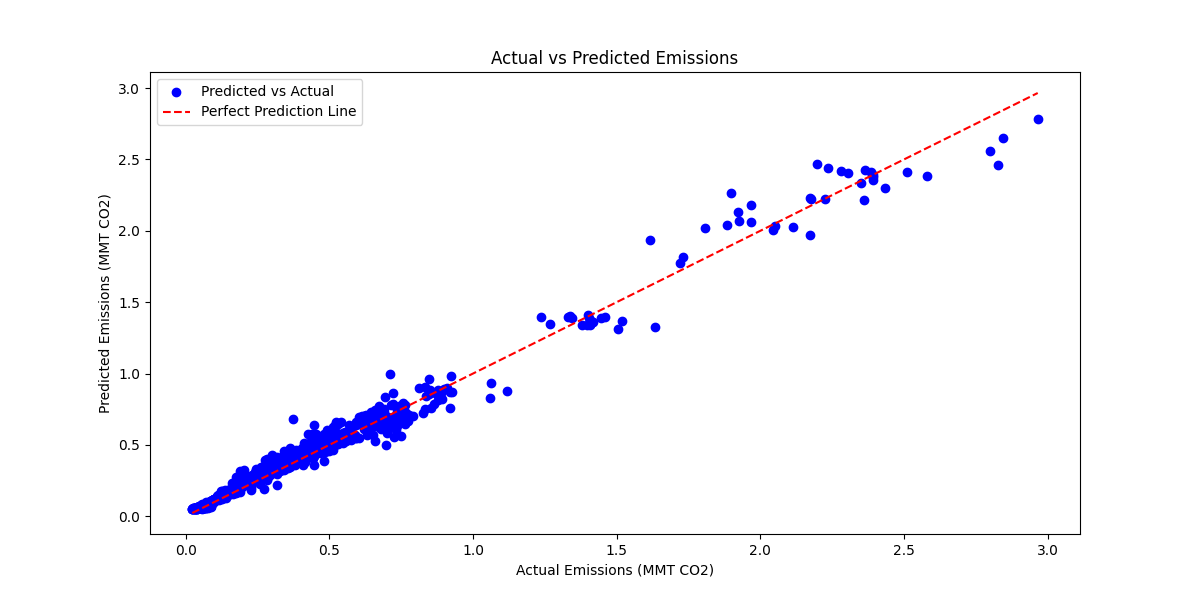
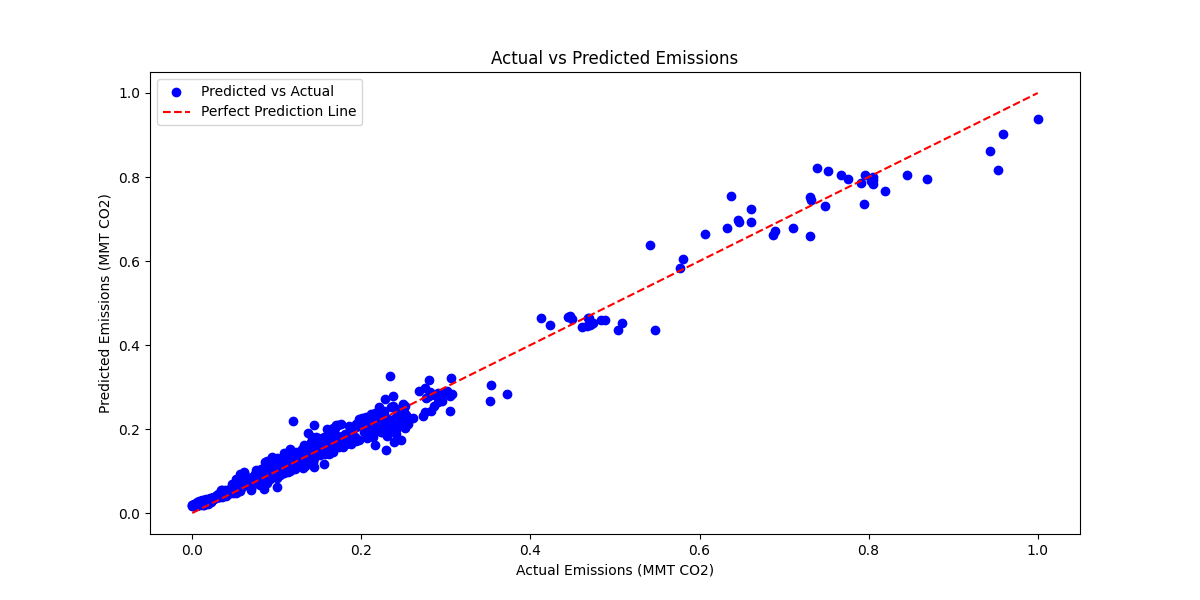
updated models and images

diff --git a/data/Models/model2.py b/data/Models/model2.py
@@ -8,6 +8,7 @@ from sklearn.metrics import mean_squared_error, r2_score, mean_absolute_percenta
 from tensorflow.keras.models import Sequential
 from tensorflow.keras.layers import LSTM, Dense, Dropout
 from tensorflow.keras.optimizers import Adam
+from sklearn.preprocessing import FunctionTransformer
 
 # Set up logging
 logging.basicConfig(level=logging.INFO)
@@ -36,18 +37,32 @@ def load_and_preprocess_data(file_path):
         logger.error(f"Error processing {file_path}: {str(e)}")
         raise
 
+class CustomScaler:
+    def __init__(self):
+        self.scaler = FunctionTransformer(
+            func=lambda x: np.log1p(x),
+            inverse_func=lambda x: np.expm1(x)
+        )
+
+    def fit_transform(self, data):
+        return self.scaler.fit_transform(data)
+
+    def inverse_transform(self, data):
+        return self.scaler.inverse_transform(data)
+    
 class EmissionsPredictor:
     def __init__(self, n_steps=5):
         self.n_steps = n_steps
         self.scalers = {
-            'transport': MinMaxScaler(),
-            'electricity': MinMaxScaler(),
-            'agriculture': MinMaxScaler(),
-            'total': MinMaxScaler()
-        }
+    'transport': MinMaxScaler(),
+    'electricity': MinMaxScaler(),
+    'agriculture': MinMaxScaler(),
+    'total': MinMaxScaler()
+}
         self.model = None
         self.state_max = None
         self.combined_df = None
+
 
     def preprocess_data(self, transport_df, electricity_df, agriculture_df):
         logger.info(f"Initial shapes - Transport: {transport_df.shape}, "
@@ -78,7 +93,7 @@ class EmissionsPredictor:
         electricity_values = combined_df['emissions_electricity'].values.reshape(-1, 1)
         agriculture_values = combined_df['emissions'].values.reshape(-1, 1)
 
-        # Scale the values
+        # Scale the values using the custom scaler
         combined_df['emissions_transport'] = self.scalers['transport'].fit_transform(transport_values)
         combined_df['emissions_electricity'] = self.scalers['electricity'].fit_transform(electricity_values)
         combined_df['emissions'] = self.scalers['agriculture'].fit_transform(agriculture_values)
@@ -168,7 +183,7 @@ class EmissionsPredictor:
         # Save visualization data
         try:
             viz_data = [{'true': float(true), 'predicted': float(pred)} for true, pred in zip(y_test_unscaled, y_pred_unscaled)]
-            with open(file_url+'prediction_viz_data.json', 'w') as f:
+            with open('prediction_viz_data.json', 'w') as f:
                 json.dump(viz_data, f)
             logger.info("Successfully saved visualization data")
         except Exception as e:
@@ -249,29 +264,61 @@ class EmissionsPredictor:
 # Plotting functions
 import matplotlib.pyplot as plt
 
-def plot_actual_vs_predicted(y_true, y_pred):
+# def plot_actual_vs_predicted(y_true, y_pred):
+#     plt.figure(figsize=(12, 6))
+#     plt.scatter(y_true, y_pred, color='blue', label='Predicted vs Actual')
+#     plt.plot([min(y_true), max(y_true)], [min(y_true), max(y_true)], color='red', linestyle='--', label='Perfect Prediction Line')
+#     plt.xlabel('Actual Emissions (MMT CO2)')
+#     plt.ylabel('Predicted Emissions (MMT CO2)')
+#     plt.title('Actual vs Predicted Emissions')
+#     plt.legend()
+#     plt.savefig(file_url+'metric_plots/actual_vs_predicted.png')
+#     plt.close()
+
+# def plot_time_series(y_true, y_pred):
+#     plt.figure(figsize=(14, 6))
+#     plt.plot(y_true, label='Actual Emissions', color='blue', linestyle='-', marker='o')
+#     plt.plot(y_pred, label='Predicted Emissions', color='orange', linestyle='--', marker='x')
+#     plt.xlabel('Sample Index')
+#     plt.ylabel('Emissions (MMT CO2)')
+#     plt.title('Time Series of Actual vs Predicted Emissions')
+#     plt.legend()
+#     plt.savefig(file_url+'metric_plots/time_series_comparison.png')
+#     plt.close()
+def plot_actual_vs_predicted(scaler, y_true, y_pred):
+    # Unscale the values before plotting
+    y_true_unscaled = scaler.inverse_transform(y_true.reshape(-1, 1))
+    y_pred_unscaled = scaler.inverse_transform(y_pred.reshape(-1, 1))
+
     plt.figure(figsize=(12, 6))
-    plt.scatter(y_true, y_pred, color='blue', label='Predicted vs Actual')
-    plt.plot([min(y_true), max(y_true)], [min(y_true), max(y_true)], color='red', linestyle='--', label='Perfect Prediction Line')
+    plt.scatter(y_true_unscaled, y_pred_unscaled, color='blue', label='Predicted vs Actual')
+    plt.plot([min(y_true_unscaled), max(y_true_unscaled)], 
+             [min(y_true_unscaled), max(y_true_unscaled)], 
+             color='red', linestyle='--', label='Perfect Prediction Line')
     plt.xlabel('Actual Emissions (MMT CO2)')
     plt.ylabel('Predicted Emissions (MMT CO2)')
-    plt.title('Actual vs Predicted Emissions')
+    plt.title('Actual vs Predicted Emissions (Unscaled)')
     plt.legend()
-    plt.savefig(file_url+'metric_plots/actual_vs_predicted.png')
+    plt.savefig(file_url + 'metric_plots/actual_vs_predicted_unscaled.png')
     plt.close()
 
-def plot_time_series(y_true, y_pred):
+def plot_time_series(scaler, y_true, y_pred):
+    # Unscale the values before plotting
+    y_true_unscaled = scaler.inverse_transform(y_true.reshape(-1, 1))
+    y_pred_unscaled = scaler.inverse_transform(y_pred.reshape(-1, 1))
+
     plt.figure(figsize=(14, 6))
-    plt.plot(y_true, label='Actual Emissions', color='blue', linestyle='-', marker='o')
-    plt.plot(y_pred, label='Predicted Emissions', color='orange', linestyle='--', marker='x')
+    plt.plot(y_true_unscaled, label='Actual Emissions', color='blue', linestyle='-', marker='o')
+    plt.plot(y_pred_unscaled, label='Predicted Emissions', color='orange', linestyle='--', marker='x')
     plt.xlabel('Sample Index')
     plt.ylabel('Emissions (MMT CO2)')
-    plt.title('Time Series of Actual vs Predicted Emissions')
+    plt.title('Time Series of Actual vs Predicted Emissions (Unscaled)')
     plt.legend()
-    plt.savefig(file_url+'metric_plots/time_series_comparison.png')
+    plt.savefig(file_url + 'metric_plots/time_series_comparison_unscaled.png')
     plt.close()
 
 
+# Main execution
 if __name__ == "__main__":
     predictor = EmissionsPredictor()
     try:
@@ -295,21 +342,23 @@ if __name__ == "__main__":
         logger.info(f"  Std true value: {metrics['std_true']:.2f}")
         logger.info(f"  Std predicted value: {metrics['std_pred']:.2f}")
         
-        prediction = predictor.predict_emissions('CA', 2022, 5000, 10000, 5000)
+        prediction = predictor.predict_emissions('MS', 2022, 5000, 10000, 5000)
         logger.info(f"Predicted emissions: {prediction:.2f}")
         
         # Load predictions from the model to plot
         X, y = predictor.prepare_sequences(combined_df)
         X_reshaped = X.reshape((X.shape[0], predictor.n_steps, 1))
         y_pred = predictor.model.predict(X_reshaped)
-        #y_pred_unscaled = predictor.scalers['total'].inverse_transform(y_pred.reshape(-1, 1))
-        #y_test_unscaled = predictor.scalers['total'].inverse_transform(y.reshape(-1, 1))
+        y_pred_unscaled = predictor.scalers['total'].inverse_transform(y_pred.reshape(-1, 1))
+        y_test_unscaled = predictor.scalers['total'].inverse_transform(y.reshape(-1, 1))
 
 
-        #Plotting the results
-        plot_actual_vs_predicted(y, y_pred)
-        plot_time_series(y, y_pred)
-
+        # Plotting the results
+        # plot_actual_vs_predicted(y_test_unscaled, y_pred_unscaled)
+        # plot_time_series(y_test_unscaled, y_pred_unscaled)
+        # Assuming 'self.scalers['total']' is the correct scaler for the total emissions
+        plot_actual_vs_predicted(predictor.scalers['total'], y, y_pred)
+        plot_time_series(predictor.scalers['total'], y, y_pred)
 
 
     except Exception as e:

diff --git a/data/Models/game_api.py b/data/Models/game_api.py
@@ -1,73 +1,67 @@
-from flask import Flask, request, jsonify
-from models import EmissionsPredictor
-from models import load_and_preprocess_data
+from fastapi import FastAPI, HTTPException
+from pydantic import BaseModel
+from typing import Optional
+import uvicorn
+import logging
+from emissions_predictor import EmissionsPredictor, load_and_preprocess_data
 
-# Initialize Flask app
-app = Flask(__name__)
+# Set up logging
+logging.basicConfig(level=logging.INFO)
+logger = logging.getLogger(name)
 
-# Create an instance of the EmissionsPredictor (make sure to load data and train the model)
+app = FastAPI()
+
+# Initialize the EmissionsPredictor
 predictor = EmissionsPredictor()
+
+# Load and preprocess data
 file_url = "NASASpaceAppsChallenge2024/data/Models/"
+transport_df = load_and_preprocess_data(file_url + 'TransportX2.csv')
+electricity_df = load_and_preprocess_data(file_url + 'ElectricityX3.csv')
+agriculture_df = load_and_preprocess_data(file_url + 'AgricultureX1.csv')
 
-# Load datasets and preprocess
-transport_df = load_and_preprocess_data(file_url+'TransportX2.csv') #NASASpaceAppsChallenge2024/data/Models/TransportX2.csv
-electricity_df = load_and_preprocess_data(file_url+'ElectricityX3.csv')
-agriculture_df = load_and_preprocess_data(file_url+'AgricultureX1.csv')
+# Preprocess and train the model
 combined_df = predictor.preprocess_data(transport_df, electricity_df, agriculture_df)
+metrics = predictor.train(combined_df)
 
-# Train the model
-predictor.train(combined_df)
+class PredictionRequest(BaseModel):
+    state: str
+    year: int
+    trees: int
+    miles: float
+    electricity: float
 
+class PredictionResponse(BaseModel):
+    predicted_emissions: float
 
-@app.route('/predict', methods=['POST'])
-def predict():
-    data = request.json
-    state = data.get('state')
-    year = data.get('year')
-    trees = data.get('trees', 0)
-    miles = data.get('miles', 0)
-    electricity = data.get('electricity', 0)
-    
+@app.post("/predict", response_model=PredictionResponse)
+async def predict_emissions(request: PredictionRequest):
     try:
-        prediction = predictor.predict_emissions(state, year, trees, miles, electricity)
-        state_max = predictor.get_state_max(state)
-        
-        if state_max is None:
-            return jsonify({'error': 'No historical data for the state'}), 400
+        prediction = predictor.predict_emissions(
+            request.state,
+            request.year,
+            request.trees,
+            request.miles,
+            request.electricity
+        )
+        return PredictionResponse(predicted_emissions=prediction)
+    except Exception as e:
+        logger.error(f"Prediction error: {str(e)}")
+        raise HTTPException(status_code=500, detail=str(e))
 
-        response = {
-            'total_emissions': prediction,
-            'state_max': state_max,
-            'percentage_of_max': (prediction / state_max * 100) if state_max > 0 else 0
-        }
+@app.get("/state_max/{state}")
+async def get_state_max(state: str):
+    max_emissions = predictor.get_state_max(state)
+    if max_emissions is None:
+        raise HTTPException(status_code=404, detail=f"No data found for state: {state}")
+    return {"state": state, "max_emissions": max_emissions}
 
-        return jsonify(response)
+@app.get("/model_accuracy")
+async def get_model_accuracy():
+    accuracy = predictor.get_model_accuracy()
+    if accuracy is None:
+        raise HTTPException(status_code=500, detail="Model accuracy not available")
+    return accuracy
 
-    except ValueError as e:
-        return jsonify({'error': str(e)}), 400
-
-
-@app.route('/state_max', methods=['GET'])
-def state_maximum():
-    state = request.args.get('state')
-    if not state:
-        return jsonify({'error': 'State parameter is required'}), 400
-    
-    max_value = predictor.get_state_max(state)
-    if max_value is None:
-        return jsonify({'error': f'No data for state: {state}'}), 404
-
-    return jsonify({'state_max': max_value})
-
-
-@app.route('/model_accuracy', methods=['GET'])
-def model_accuracy():
-    accuracy_metrics = predictor.get_model_accuracy()
-    if accuracy_metrics is None:
-        return jsonify({'error': 'Model has not been trained yet'}), 500
-
-    return jsonify(accuracy_metrics)
-
-
-if __name__ == '__main__':
-    app.run(debug=True)
+if name == "main":
+    uvicorn.run(app, host="0.0.0.0", port=8000)
